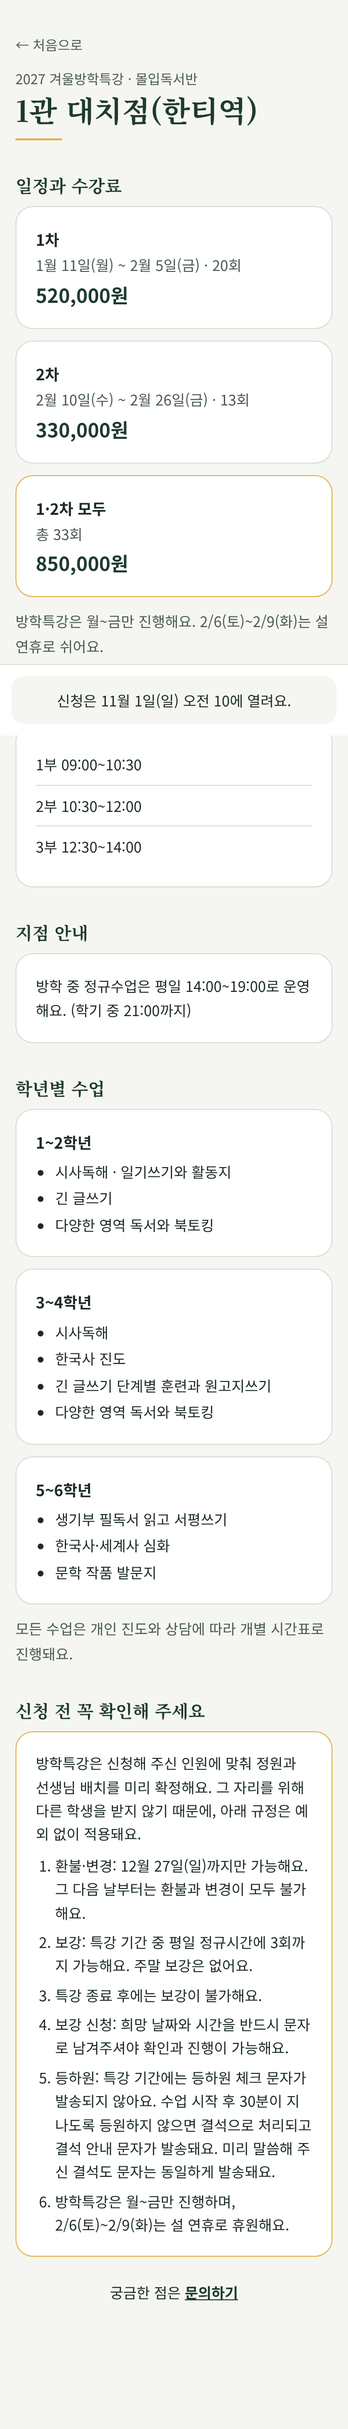
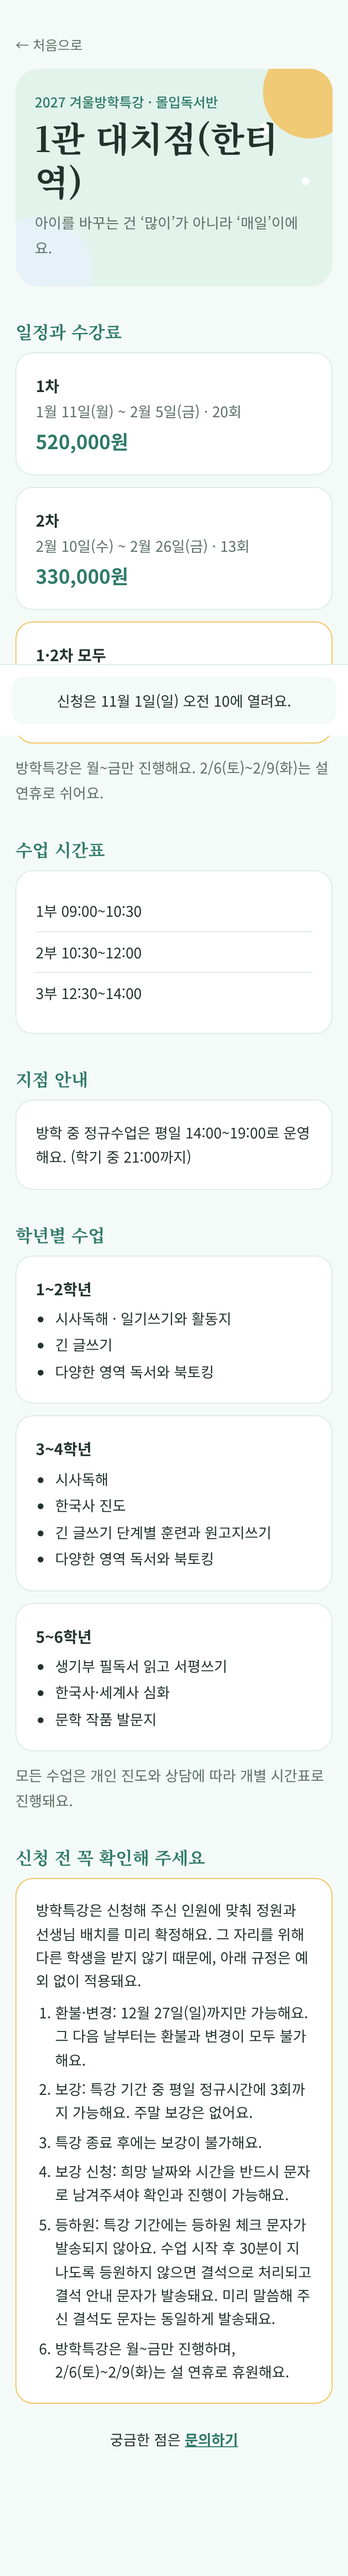
밝은 톤 색상과 상단 소개 영역 디자인 적용
Claude-Session: https://claude.ai/code/session_01CMkHt9vR7B71WRJrYuVxsD

diff --git a/chaeknamu-winter/src/app/globals.css b/chaeknamu-winter/src/app/globals.css
@@ -1,13 +1,16 @@
 @import "tailwindcss";
 
 @theme {
-  --color-pine: #1e3a2f;
-  --color-pine-dark: #0f2219;
-  --color-gold: #e3b04b;
-  --color-snow: #f5f6f2;
-  --color-ink: #1b2a23;
-  --color-muted: #4a5a52;
-  --color-line: #d6dcd4;
+  --color-pine: #2f7a68;
+  --color-pine-dark: #25624f;
+  --color-gold: #f4bf57;
+  --color-snow: #f4faf7;
+  --color-ink: #22332d;
+  --color-muted: #5d7068;
+  --color-line: #dcebe4;
+
+  --color-mint: #e2f3ec;
+  --color-sky: #e6f2f8;
 
   --font-serif: var(--font-noto-serif), "Noto Serif KR", serif;
   --font-sans: var(--font-noto-sans), "Noto Sans KR", sans-serif;
@@ -48,6 +51,6 @@ h1, h2, h3 {
     @apply mb-1 block text-sm font-bold text-ink;
   }
   .chip {
-    @apply flex min-h-11 cursor-pointer items-center rounded-xl border border-line bg-white px-3 py-2 text-[15px] has-[:checked]:border-pine has-[:checked]:bg-pine/5 has-[:checked]:font-bold;
+    @apply flex min-h-11 cursor-pointer items-center rounded-xl border border-line bg-white px-3 py-2 text-[15px] has-[:checked]:border-pine has-[:checked]:bg-mint has-[:checked]:font-bold;
   }
 }

diff --git a/chaeknamu-winter/src/app/[branch]/page.tsx b/chaeknamu-winter/src/app/[branch]/page.tsx
@@ -1,6 +1,7 @@
 import Link from "next/link";
 import { notFound } from "next/navigation";
 import OpenGate from "@/components/OpenGate";
+import Hero from "@/components/Hero";
 import PolicyBox from "@/components/PolicyBox";
 import { CURRICULUM, getBranch } from "@/lib/mock";
 import { kDate, slotText, won } from "@/lib/format";
@@ -15,9 +16,7 @@ export default async function BranchPage({ params }: { params: Promise<{ branch:
   return (
     <main className="mx-auto max-w-xl px-4 pb-32 pt-8">
       <Link href="/" className="text-sm text-muted">← 처음으로</Link>
-      <p className="mt-3 text-sm text-muted">2027 겨울방학특강 · 몰입독서반</p>
-      <h1 className="mt-1 text-3xl font-black text-pine">{b.name}</h1>
-      <div className="mt-3 h-0.5 w-12 bg-gold" />
+      <div className="mt-3"><Hero kicker="2027 겨울방학특강 · 몰입독서반" title={b.name} /></div>
 
       <h2 className="mt-8 text-lg text-pine">일정과 수강료</h2>
       <div className="mt-2 space-y-3">

diff --git a/chaeknamu-winter/src/components/Hero.tsx b/chaeknamu-winter/src/components/Hero.tsx
@@ -1,0 +1,14 @@
+// 상단 소개 영역. 단색 면과 작은 도형만 써서 가볍게 꾸몄어요.
+export default function Hero({ kicker, title }: { kicker: string; title: string }) {
+  return (
+    <header className="relative overflow-hidden rounded-[24px] bg-mint px-5 pb-7 pt-6">
+      <span aria-hidden className="absolute -right-6 -top-6 size-24 rounded-full bg-gold/80" />
+      <span aria-hidden className="absolute right-16 top-14 size-3 rounded-full bg-white" />
+      <span aria-hidden className="absolute right-6 top-28 size-2 rounded-full bg-white" />
+      <span aria-hidden className="absolute -bottom-10 -left-8 size-28 rounded-full bg-sky" />
+      <p className="relative text-sm font-medium text-pine">{kicker}</p>
+      <h1 className="relative mt-1 text-4xl font-black leading-tight text-ink">{title}</h1>
+      <p className="relative mt-2 text-[15px] text-muted">아이를 바꾸는 건 &lsquo;많이&rsquo;가 아니라 &lsquo;매일&rsquo;이에요.</p>
+    </header>
+  );
+}

diff --git a/chaeknamu-winter/src/app/page.tsx b/chaeknamu-winter/src/app/page.tsx
@@ -2,13 +2,12 @@ import Link from "next/link";
 import { BRANCHES } from "@/lib/mock";
 import { kDate } from "@/lib/format";
 import { LETTER } from "@/lib/texts";
+import Hero from "@/components/Hero";
 
 export default function Home() {
   return (
     <main className="mx-auto max-w-xl px-4 pb-16 pt-10">
-      <p className="text-sm text-muted">책나무 강남서초지사 · 2027 겨울방학특강</p>
-      <h1 className="mt-1 text-4xl font-black text-pine">몰입독서반</h1>
-      <div className="mt-3 h-0.5 w-12 bg-gold" />
+      <Hero kicker="책나무 강남서초지사 · 2027 겨울방학특강" title="몰입독서반" />
 
       <section className="card mt-6 space-y-3 text-[16px] leading-[1.85]">
         {LETTER.map((p) => (

diff --git a/chaeknamu-winter/CLAUDE.md b/chaeknamu-winter/CLAUDE.md
@@ -28,7 +28,7 @@
 허용 이메일 목록에 없으면 가입 자체 불가. 원장 이메일: [미정]
 
 ## 3. 브랜드와 톤
-토큰: pine `#1E3A2F`(메인) / pine-dark `#0F2219`(hover) / gold `#E3B04B`(강조, 흰 글씨 배경 금지) / snow `#F5F6F2`(배경) / ink `#1B2A23`(본문) / muted `#4A5A52`(보조) / line `#D6DCD4`(테두리).
+토큰: pine `#2F7A68`(메인) / pine-dark `#25624F`(hover) / gold `#F4BF57`(강조, 흰 글씨 배경 금지) / snow `#F4FAF7`(+mint `#E2F3EC`, sky `#E6F2F8` 보조 면)(배경) / ink `#22332D`(본문) / muted `#5D7068`(보조) / line `#DCEBE4`(테두리).
 - 제목 Noto Serif KR(700/900), 본문 Noto Sans KR(400/500/700), `next/font/google`.
 - 카드: 흰 배경, 1px 테두리, 모서리 16~20px. 그라데이션·이모지 장식·과한 그림자 금지. 다크모드 없음.
 - 터치 영역 최소 44px, 모바일 본문 16px 이상.
